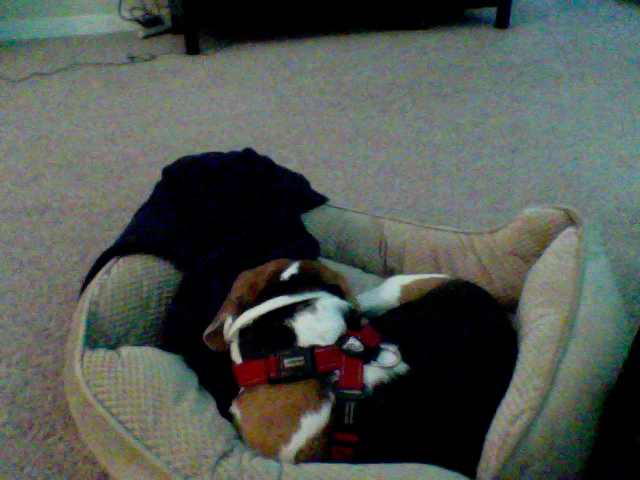
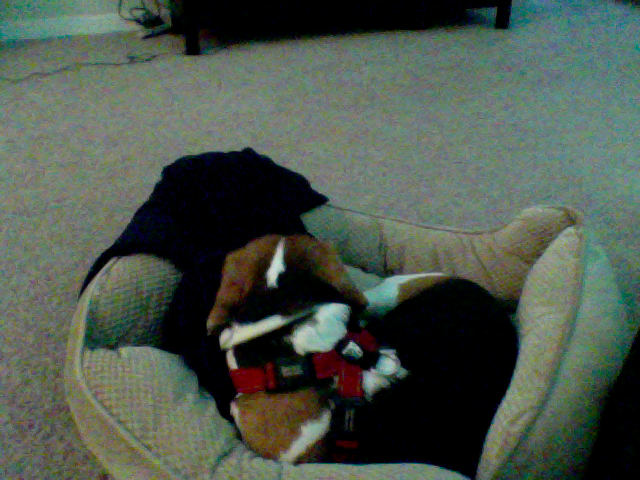
update at Month05Day12Time09:43

Changed region(s): [[0.0, 0.0, 1.0, 1.0]]

diff --git a/index.html b/index.html
@@ -39,8 +39,8 @@
       <!-- Example row of columns -->
       <div class="row">
         <div class="col-md-4">
-	<p>This picture was updated at Month05Day12Time09:42</p>
-		<img src="4_pic.png" />
+	<p>This picture was updated at Month05Day12Time09:43</p>
+		<img src="3_pic.png" />
         </div>
       </div>
 
